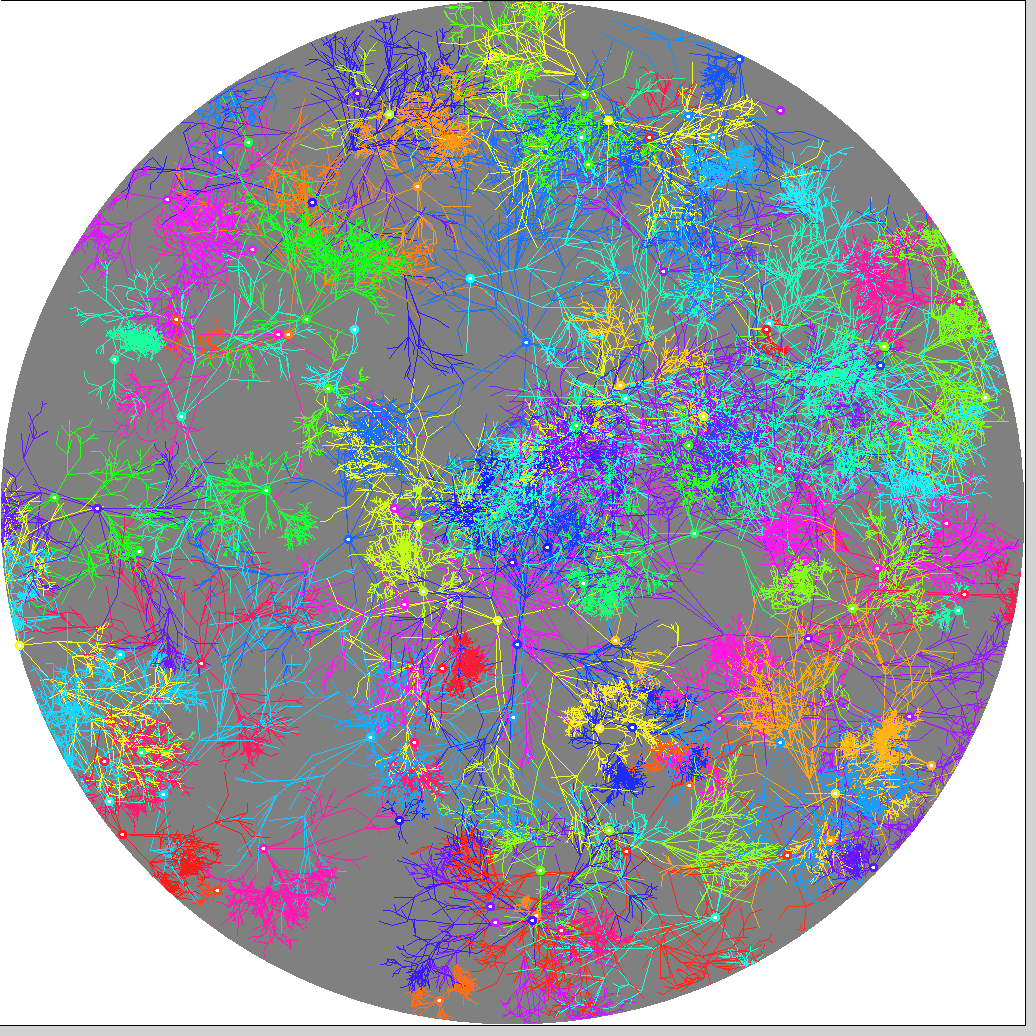
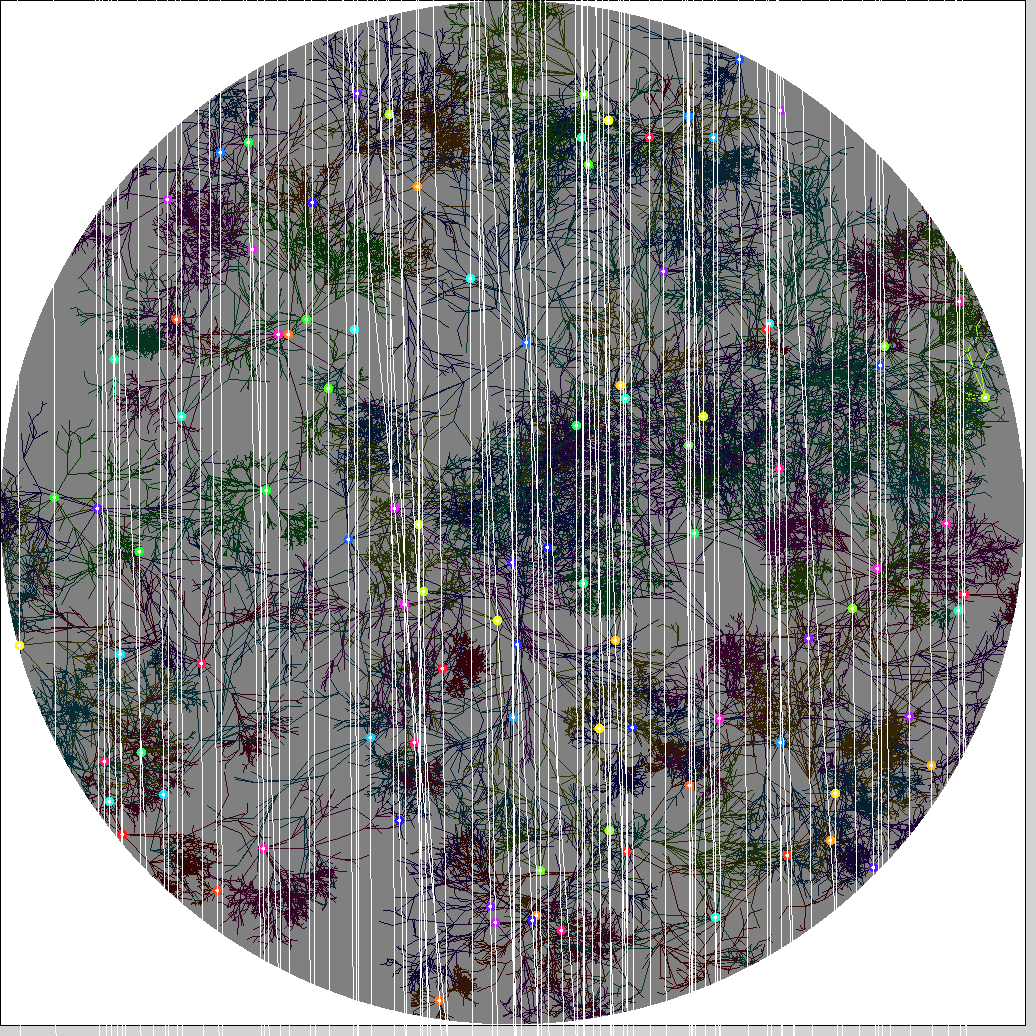
random approach solution. It can't work well.

diff --git a/TCOMM_CutTheRoots/CutTheRoots.cpp b/TCOMM_CutTheRoots/CutTheRoots.cpp
@@ -4,6 +4,8 @@
 #include <map>
 #include <sstream>
 #include <vector>
+#include <tuple>
+#include <random>
 
 using namespace std;
 
@@ -12,18 +14,36 @@ public:
     vector<int> makeCuts(int NP, vector<int> points, vector<int> roots) {
         // first NP points give coordinates of the bases of the plants, written as x, y
         // get x-coordinates of the bases, sort them, make cuts along y-axis to separate x-coordinates
-        vector<int> xs(NP);
+        vector<pair<int,int>> xys(NP);
         for (int i = 0; i < NP; ++i) {
-            xs[i] = points[2 * i];
+            xys[i].first  = points[2 * i];
+            xys[i].second = points[2 * i + 1];
         }
-        sort(xs.begin(), xs.end());
+        sort(xys.begin(), xys.end());
+        
+        double eps = 1e-1;
+        random_device seed_gen;
+        mt19937 engine(seed_gen());
+        uniform_real_distribution<double> distRatio(0+eps, 1-eps);
         vector<int> ret(4 * (NP - 1));
         for (int i = 0; i < NP - 1; ++i) {
-            int x = (xs[i]+xs[i+1])/2;
-            ret[4 * i] = x;
-            ret[4 * i + 1] = 1;
-            ret[4 * i + 2] = x;
-            ret[4 * i + 3] = 2;
+            double ratio = distRatio(engine);
+            int a = ratio*xys[i].first + (1.0-ratio)*xys[i+1].first;
+            int b = ratio*xys[i].second + (1.0-ratio)*xys[i+1].second;
+            normal_distribution<double> distK(b, 1.0);
+            int k = distK(engine);
+            ret[4 * i] = a;
+            ret[4 * i + 1] = b;
+            if (k < 0 || k > 1024)
+            {
+                ret[4 * i + 2] = a;
+                ret[4 * i + 3] = b + 1;
+            }
+            else
+            {
+                ret[4 * i + 2] = a + 1;
+                ret[4 + i + 3] = k;
+            }
         }
         return ret;
     }
